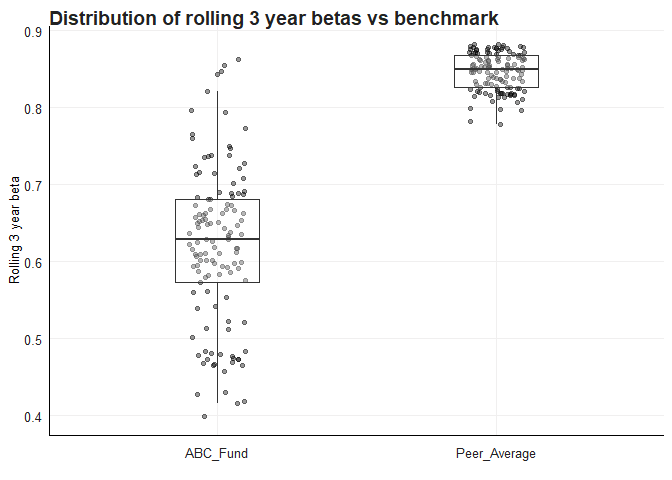
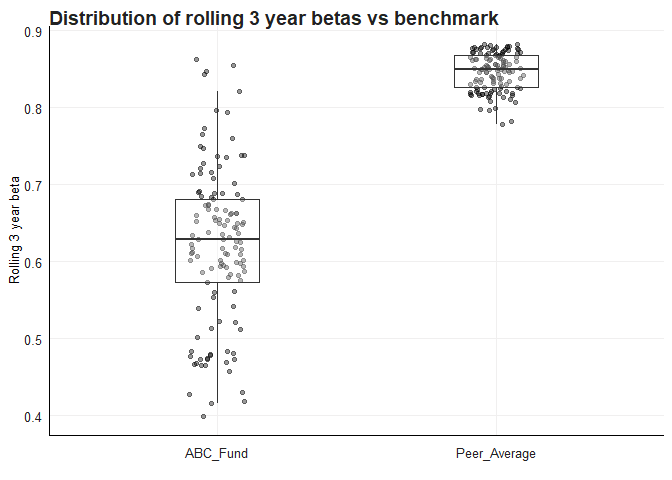
Q5 Updates

diff --git a/Q1.html b/Q1.html
@@ -534,7 +534,7 @@ ggplot(rolling_betas, aes(x = Series, y = Beta)) +
     y     = &quot;Rolling 3 year beta&quot;
   ) +
   theme_fmx()</code></pre>
[2 lines of base64/hex data omitted]
 <pre class="r"><code># Combine benchmark, ABC and peer average into one xts object
 returns_xts &lt;- merge(Rb_xts, Ra_xts, join = &quot;inner&quot;)
 colnames(returns_xts) &lt;- c(&quot;Benchmark&quot;, &quot;ABC_Fund&quot;, &quot;Peer_Average&quot;)

diff --git a/Q5.html b/Q5.html
@@ -355,6 +355,8 @@ display: none;
 
 <div id="question-5-global-balanced-index-fund-portfolio-construction" class="section level1">
 <h1>QUESTION 5: Global Balanced Index Fund Portfolio Construction</h1>
+<p>We want to construct a global balanced index fund portfolio using a
+mix of traded global indexes.</p>
 <div id="load-all-required-packages-at-the-top" class="section level2">
 <h2>Load all required packages at the top</h2>
 <pre class="r"><code># Load all required packages

diff --git a/README.md b/README.md
@@ -1418,7 +1418,7 @@ garchfit1
     ## 4    50     56.46       0.2162
     ## 
     ## 
-    ## Elapsed time : 0.2533669
+    ## Elapsed time : 0.1500082
 
 ``` r
 # Extract coefficient table 
